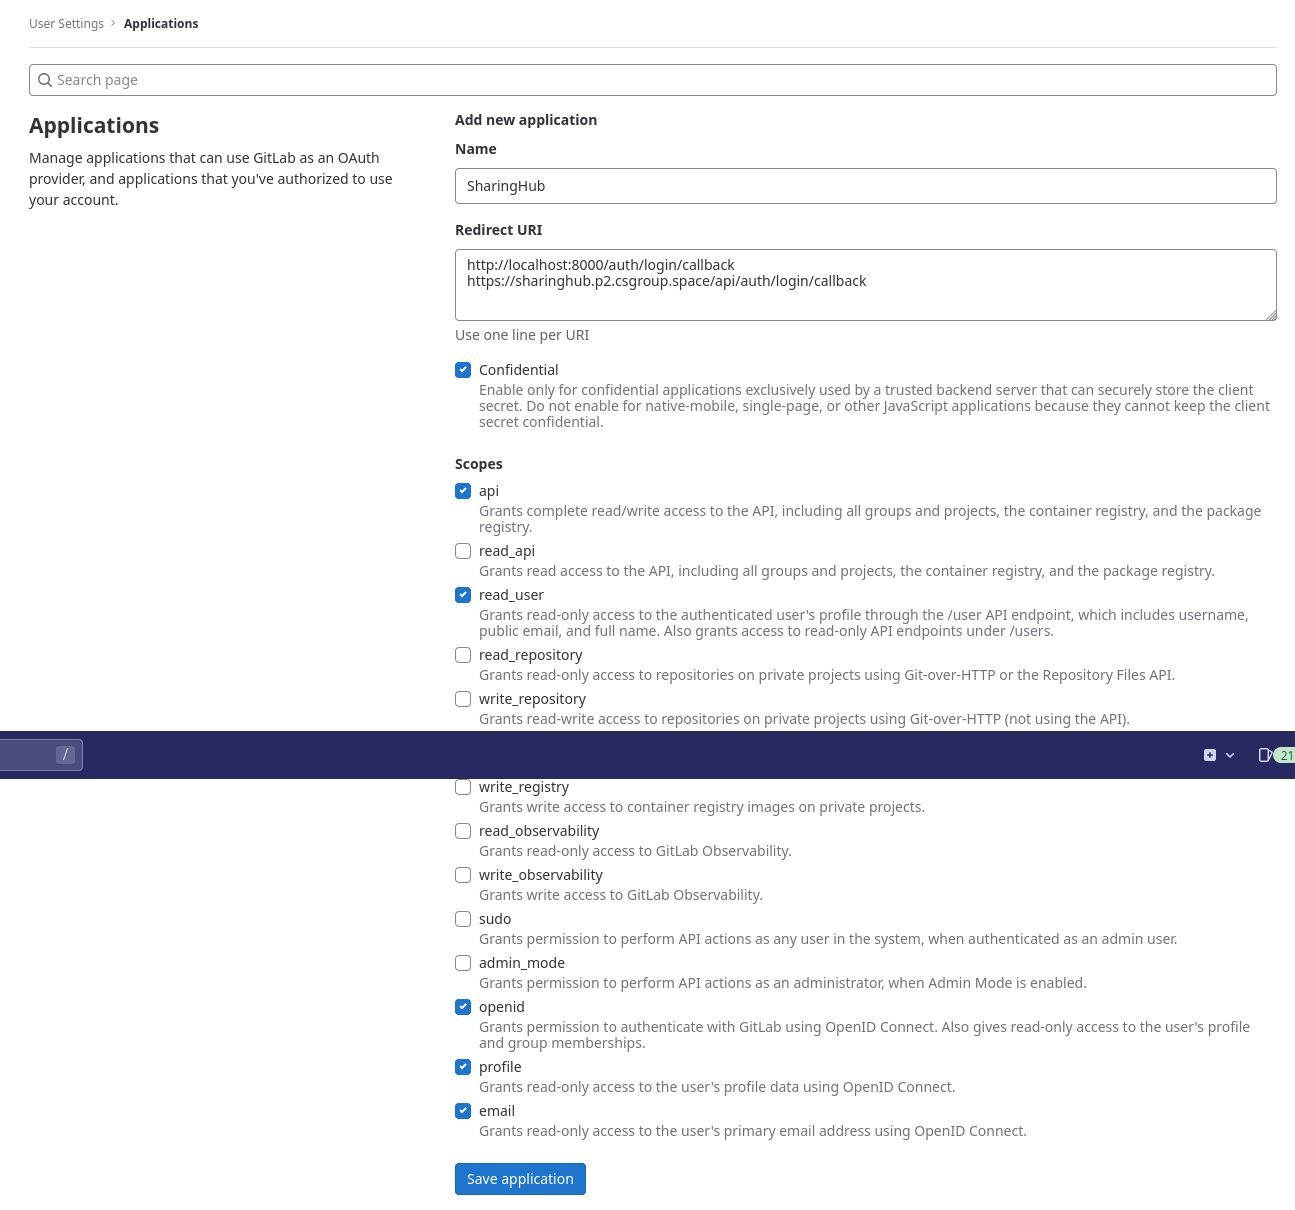
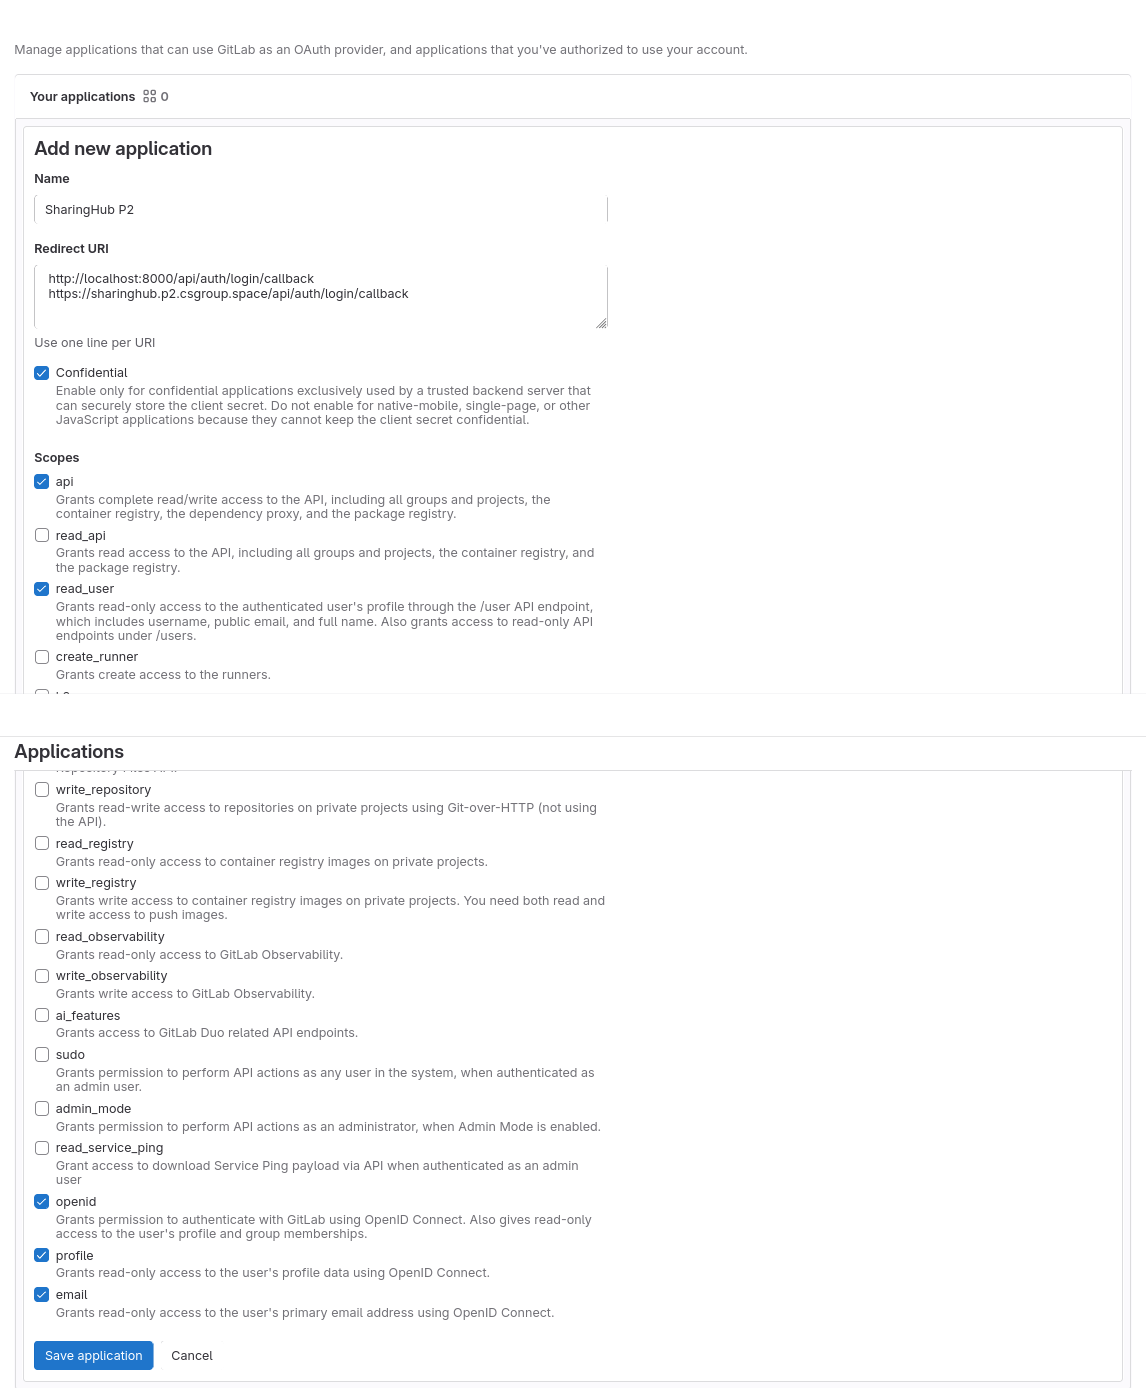
docs: fix GitLab Authentication instructions, remove deprecated roadmap section

diff --git a/README.md b/README.md
@@ -2,7 +2,6 @@
 
 ## Table of contents
 
-- [Roadmap](#roadmap)
 - [Setup](#setup)
 - [Development](#development)
 - [Production](#production)
@@ -16,18 +15,6 @@
       - [CS SharingHub](#cs-sharinghub)
 - [Configuration](#configuration)
 - [Copyright and License](#copyright-and-license)
-
-## Roadmap
-
-The goal here is to establish a plan on the developments of SharingHub, with the different requirements for each release.
-
-- **Release v0.1.0 (v0.1.X): MVP**
-
-  The goal of this release is to implement the minimum set of features to have a functioning and cohesive platform. This version could be used for demonstrations and deployed as such, independently from the development one. Fixes can be added, but no new features implemented. Milestone [here](https://gitlab.si.c-s.fr/groups/space_applications/mlops-services/-/boards?milestone_title=v0.1.0).
-
-- **Release v1.0.0 (v1.X.Y): Industrialized, first stable**
-
-  After the v0.1.0, we will work on the industrialization of the SharingHub. It is important to refactor and improve the software architecture to create a robust base for future developments. We will also add here the QA tools and create the CI/CD pipelines. Small new features and bug fixes can be added after, as long as they do not overstep on the boundaries of the next release. Milestone [here](https://gitlab.si.c-s.fr/groups/space_applications/mlops-services/-/boards?milestone_title=v1.0.0).
 
 ## Setup
 
@@ -104,7 +91,7 @@ Configure an application in the GitLab instance for OpenID connect authenticatio
 Callback URLs example:
 
 ```txt
-http://localhost:8000/auth/login/callback
+http://localhost:8000/api/auth/login/callback
 <deployment-url>/api/auth/login/callback
 ```
 
@@ -128,7 +115,12 @@ The client ID is the application id from of the [configured application](#gitlab
 ```bash
 # Install
 kubectl create secret generic sharinghub --from-literal session-secret-key="<uuid>" --namespace sharinghub
+
+# if default token
+kubectl create secret generic sharinghub-oidc  --from-literal default-token="<default-token>" --from-literal client-id="<client-id>" --from-literal client-secret="<client-secret>" --namespace sharinghub
+# else
 kubectl create secret generic sharinghub-oidc --from-literal client-id="<client-id>" --from-literal client-secret="<client-secret>" --namespace sharinghub
+
 kubectl create secret generic sharinghub-s3 --from-literal access-key="<access-key>" --from-literal secret-key="<secret-key>" --namespace sharinghub
 
 # Install & Update
